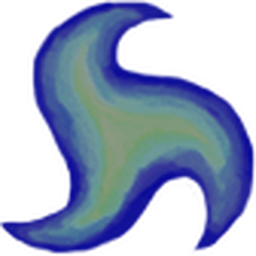
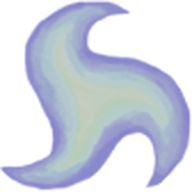
Replaced Bulldog and Summon Brambles with Fire Spirit and Evil Spirit.  Rainbow Louse is now less expensive but less powerful.  Replaced Demonic Ritual with Ambush.  Overall a more orbs focused pack.  Some number tweaks to existing cards.

diff --git a/src/main/java/thePackmaster/orbs/summonspack/FireSpirit.java b/src/main/java/thePackmaster/orbs/summonspack/FireSpirit.java
@@ -3,12 +3,19 @@ package thePackmaster.orbs.summonspack;
 import com.badlogic.gdx.Gdx;
 import com.badlogic.gdx.graphics.Color;
 import com.badlogic.gdx.graphics.g2d.SpriteBatch;
+import com.badlogic.gdx.math.Interpolation;
+import com.badlogic.gdx.math.MathUtils;
 import com.megacrit.cardcrawl.core.CardCrawlGame;
+import com.megacrit.cardcrawl.core.Settings;
+import com.megacrit.cardcrawl.dungeons.AbstractDungeon;
+import com.megacrit.cardcrawl.helpers.MathHelper;
 import com.megacrit.cardcrawl.localization.OrbStrings;
 import com.megacrit.cardcrawl.orbs.AbstractOrb;
 import com.megacrit.cardcrawl.powers.AbstractPower;
 import com.megacrit.cardcrawl.powers.FlameBarrierPower;
 import com.megacrit.cardcrawl.powers.FocusPower;
+import com.megacrit.cardcrawl.vfx.BobEffect;
+import com.megacrit.cardcrawl.vfx.scene.TorchParticleXLEffect;
 import thePackmaster.SpireAnniversary5Mod;
 import thePackmaster.orbs.AbstractPackMasterOrb;
 import thePackmaster.util.Wiz;
@@ -28,7 +35,10 @@ public class FireSpirit extends AbstractPackMasterOrb {
     private final static int BASE_EVOKE = 4;
 
     private Color color = Color.WHITE.cpy();
-    private double colorTime = 0d;
+
+    private float sparkTimer = 0.2f;
+
+    private BobEffect fireBobEffect = new BobEffect(2f, 3f);
 
     public FireSpirit()
     {
@@ -71,19 +81,35 @@ public class FireSpirit extends AbstractPackMasterOrb {
 
     @Override
     public void updateAnimation() {
-        super.updateAnimation();
-        colorTime += Gdx.graphics.getDeltaTime();
-        color.set(1f,
-                0.9f + (float)(0.1f*Math.cos(colorTime * 1.5d * Math.PI)),
-                0.75f + (float)(0.25f*Math.cos(colorTime * 3d * Math.PI)),
-                0.85f + (float)(0.15f*Math.cos(colorTime * 2d * Math.PI)));
+        fireBobEffect.update();
+
+        sparkTimer -= Gdx.graphics.getDeltaTime();
+
+        cX = MathHelper.orbLerpSnap(cX, adp().animX + tX);
+        cY = MathHelper.orbLerpSnap(cY, adp().animY + tY);
+        if (channelAnimTimer != 0.0F) {
+            channelAnimTimer -= Gdx.graphics.getDeltaTime();
+            if (channelAnimTimer < 0.0F) {
+                channelAnimTimer = 0.0F;
+            }
+        }
+
+        c.a = Interpolation.pow2In.apply(1.0F, 0.01F, channelAnimTimer / 0.5F);
+        scale = Interpolation.swingIn.apply(Settings.scale, 0.01F, channelAnimTimer / 0.5F);
+
+        if (sparkTimer <= 0) {
+            AbstractDungeon.effectsQueue.add(
+                    new TorchParticleXLEffect(cX + MathUtils.random(-30.0F, 30.0F) * Settings.scale,
+                            cY + MathUtils.random(-25.0F, 25.0F) * Settings.scale));
+            sparkTimer = MathUtils.random(0.05f, 0.5f);
+        }
     }
 
     @Override
     public void render(SpriteBatch sb) {
         sb.setColor(color);
         sb.setBlendFunction(770, 771);
-        sb.draw(img, cX - SPIRIT_WIDTH /2F, cY - SPIRIT_WIDTH /2F, SPIRIT_WIDTH /2F, SPIRIT_WIDTH /2F,
+        sb.draw(img, cX - SPIRIT_WIDTH /2F, cY - SPIRIT_WIDTH /2F + fireBobEffect.y, SPIRIT_WIDTH /2F, SPIRIT_WIDTH /2F,
                 SPIRIT_WIDTH, SPIRIT_WIDTH, scale, scale, 0f, 0, 0, (int) SPIRIT_WIDTH, (int) SPIRIT_WIDTH,
                 false, false);
         renderText(sb);

diff --git a/src/main/java/thePackmaster/orbs/summonspack/EvilSpirit.java b/src/main/java/thePackmaster/orbs/summonspack/EvilSpirit.java
@@ -4,7 +4,6 @@ import com.badlogic.gdx.Gdx;
 import com.badlogic.gdx.graphics.Color;
 import com.badlogic.gdx.graphics.g2d.SpriteBatch;
 import com.badlogic.gdx.math.Interpolation;
-import com.megacrit.cardcrawl.actions.AbstractGameAction;
 import com.megacrit.cardcrawl.core.AbstractCreature;
 import com.megacrit.cardcrawl.core.CardCrawlGame;
 import com.megacrit.cardcrawl.core.Settings;
@@ -37,7 +36,7 @@ public class EvilSpirit extends AbstractPackMasterOrb implements OnApplyPowerOrb
     private Color color = Color.WHITE.cpy();
     private double colorTime = 0d;
 
-    private BobEffect GhostBobEffect = new BobEffect(4f, 3f);
+    private BobEffect ghostBobEffect = new BobEffect(4f, 3.2f);
 
     public EvilSpirit()
     {
@@ -82,6 +81,7 @@ public class EvilSpirit extends AbstractPackMasterOrb implements OnApplyPowerOrb
 
     @Override
     public void updateAnimation() {
+        ghostBobEffect.update();
         cX = MathHelper.orbLerpSnap(cX, AbstractDungeon.player.animX + tX);
         cY = MathHelper.orbLerpSnap(cY, AbstractDungeon.player.animY + tY);
         if (channelAnimTimer != 0.0F) {
@@ -94,14 +94,14 @@ public class EvilSpirit extends AbstractPackMasterOrb implements OnApplyPowerOrb
         c.a = Interpolation.pow2In.apply(1.0F, 0.01F, channelAnimTimer / 0.5F);
         scale = Interpolation.swingIn.apply(Settings.scale, 0.01F, channelAnimTimer / 0.5F);
         colorTime += Gdx.graphics.getDeltaTime();
-        color.set(1f, 1f, 1f, 0.75f + (float)(0.25f*Math.cos(colorTime * 0.6f * Math.PI)));
+        color.set(1f, 1f, 1f, 0.75f + (float)(0.25f*Math.cos(colorTime * 0.65f * Math.PI)));
     }
 
     @Override
     public void render(SpriteBatch sb) {
         sb.setColor(color);
         sb.setBlendFunction(770, 771);
-        sb.draw(img, cX - SPIRIT_WIDTH /2F, cY - SPIRIT_WIDTH /2F + GhostBobEffect.y, SPIRIT_WIDTH /2F, SPIRIT_WIDTH /2F,
+        sb.draw(img, cX - SPIRIT_WIDTH /2F, cY - SPIRIT_WIDTH /2F + ghostBobEffect.y, SPIRIT_WIDTH /2F, SPIRIT_WIDTH /2F,
                 SPIRIT_WIDTH, SPIRIT_WIDTH, scale, scale, 0f, 0, 0, (int) SPIRIT_WIDTH, (int) SPIRIT_WIDTH,
                 false, false);
         renderText(sb);

diff --git a/src/main/java/thePackmaster/cards/summonspack/EvilSpirit.java b/src/main/java/thePackmaster/cards/summonspack/EvilSpirit.java
@@ -27,13 +27,14 @@ public class EvilSpirit extends AbstractPackmasterCard {
     private static final int MAGIC = 1;
     private static final int UPGRADE_MAGIC = 1;
 
-    private static final String SADISTIC_TIP = "Sadistic\u00a0Nature";
+    private final TooltipInfo sadisticTip;
 
     public EvilSpirit() {
         super(ID, COST, TYPE, RARITY, TARGET);
         baseMagicNumber = magicNumber = MAGIC;
         FlavorText.AbstractCardFlavorFields.boxColor.set(this, FLAVOR_BOX_COLOR);
         FlavorText.AbstractCardFlavorFields.textColor.set(this, FLAVOR_TEXT_COLOR);
+        sadisticTip = new TooltipInfo(cardStrings.EXTENDED_DESCRIPTION[0], cardStrings.EXTENDED_DESCRIPTION[1]);
     }
 
     @Override
@@ -45,7 +46,7 @@ public class EvilSpirit extends AbstractPackmasterCard {
     @Override
     public List<TooltipInfo> getCustomTooltips() {
         ArrayList<TooltipInfo> extraTooltips = new ArrayList();
-        extraTooltips.add(new TooltipInfo(BaseMod.getKeywordTitle(SADISTIC_TIP), BaseMod.getKeywordDescription(SADISTIC_TIP)));
+        extraTooltips.add(sadisticTip);
         return extraTooltips;
     }
 

diff --git a/src/main/java/thePackmaster/cards/summonspack/RainbowLouse.java b/src/main/java/thePackmaster/cards/summonspack/RainbowLouse.java
@@ -29,21 +29,21 @@ public class RainbowLouse extends AbstractPackmasterCard {
     private static final CardTarget TARGET = CardTarget.SELF;
 
     private static final int MAGIC = 3;
-    private static final String HP_TIP = "Temporary HP";
+    private final TooltipInfo hpTip;
 
     public RainbowLouse() {
         super(ID, COST, TYPE, RARITY, TARGET);
-        exhaust = true;
         FlavorText.AbstractCardFlavorFields.boxColor.set(this, FLAVOR_BOX_COLOR);
         FlavorText.AbstractCardFlavorFields.textColor.set(this, FLAVOR_TEXT_COLOR);
         AnimatedCardsPatch.loadFrames(this, 36, 2f/36f);
         baseMagicNumber = magicNumber = MAGIC;
+        hpTip = new TooltipInfo(cardStrings.EXTENDED_DESCRIPTION[0], cardStrings.EXTENDED_DESCRIPTION[1]);
     }
 
     @Override
     public List<TooltipInfo> getCustomTooltips() {
         ArrayList<TooltipInfo> extraTooltips = new ArrayList();
-        extraTooltips.add(new TooltipInfo(BaseMod.getKeywordTitle(HP_TIP), BaseMod.getKeywordDescription(HP_TIP)));
+        extraTooltips.add(hpTip);
         return extraTooltips;
     }
 

diff --git a/src/main/java/thePackmaster/SpireAnniversary5Mod.java b/src/main/java/thePackmaster/SpireAnniversary5Mod.java
@@ -164,7 +164,7 @@ public class SpireAnniversary5Mod implements
     public static final String GUN3_KEY = makeID("Gun3");
     private static final String GUN3_OGG = makePath("audio/hermitpack/GUN3.ogg");
 
-    public static final String EVIL_EFFECT_FILE = makePath("images/summonspack/vfx/Evil.png");
+    public static final String EVIL_EFFECT_FILE = makePath("images/vfx/summonspack/Evil.png");
 
     public static final ArrayList<Panda> pandaList = new ArrayList<>();
     public static final ArrayList<Louse> louseList = new ArrayList<>();
@@ -406,6 +406,7 @@ public class SpireAnniversary5Mod implements
         BaseMod.addAudio(BEES_KEY, BEES_OGG);
         BaseMod.addAudio(ELEPHANT_KEY, ELEPHANT_OGG);
         BaseMod.addAudio(PEW_KEY, PEW_OGG);
+        BaseMod.addAudio(EVIL_KEY, EVIL_OGG);
         BaseMod.addAudio(TRANSMUTATION_KEY, TRANSMUTATION_OGG);
         BaseMod.addAudio(WATER_IMPACT_1_KEY, WATER_IMPACT_1_OGG);
         BaseMod.addAudio(WATER_IMPACT_2_KEY, WATER_IMPACT_2_OGG);

diff --git a/src/main/java/thePackmaster/cards/summonspack/FireSpirit.java b/src/main/java/thePackmaster/cards/summonspack/FireSpirit.java
@@ -26,19 +26,20 @@ public class FireSpirit extends AbstractPackmasterCard {
     private static final int BLOCK = 11;
     private static final int UPGRADE_BLOCK = 4;
 
-    private final static String FLAME_TIP = "Flame\u00a0Barrier";
+    private final TooltipInfo flameTip;
 
     public FireSpirit() {
         super(ID, COST, TYPE, RARITY, TARGET);
         baseBlock = BLOCK;
         FlavorText.AbstractCardFlavorFields.boxColor.set(this, FLAVOR_BOX_COLOR);
         FlavorText.AbstractCardFlavorFields.textColor.set(this, FLAVOR_TEXT_COLOR);
+        flameTip = new TooltipInfo(cardStrings.EXTENDED_DESCRIPTION[0], cardStrings.EXTENDED_DESCRIPTION[1]);
     }
 
     @Override
     public List<TooltipInfo> getCustomTooltips() {
         ArrayList<TooltipInfo> extraTooltips = new ArrayList();
-        extraTooltips.add(new TooltipInfo(BaseMod.getKeywordTitle(FLAME_TIP), BaseMod.getKeywordDescription(FLAME_TIP)));
+        extraTooltips.add(flameTip);
         return extraTooltips;
     }
 

diff --git a/src/main/java/thePackmaster/orbs/summonspack/Louse.java b/src/main/java/thePackmaster/orbs/summonspack/Louse.java
@@ -96,9 +96,9 @@ public class Louse extends AbstractPackMasterOrb implements OnPlayCardOrb {
     @Override
     public void render(SpriteBatch sb) {
         spinTime += Gdx.graphics.getDeltaTime();
-        color.set((MathUtils.cosDeg(spinTime * 120f) + 1f)/2f,
-                (MathUtils.cosDeg(spinTime * 120f + 120f) + 1f)/2f,
-                (MathUtils.cosDeg(spinTime * 120f + 240f) + 1f)/2f,
+        color.set((MathUtils.cosDeg(spinTime * 120f) + 1.3f)/2.3f,
+                (MathUtils.cosDeg(spinTime * 120f + 120f) + 1.3f)/2.3f,
+                (MathUtils.cosDeg(spinTime * 120f + 240f) + 1.3f)/2.3f,
                 1f);
         sb.setColor(color);
         sb.setBlendFunction(770, 771);
